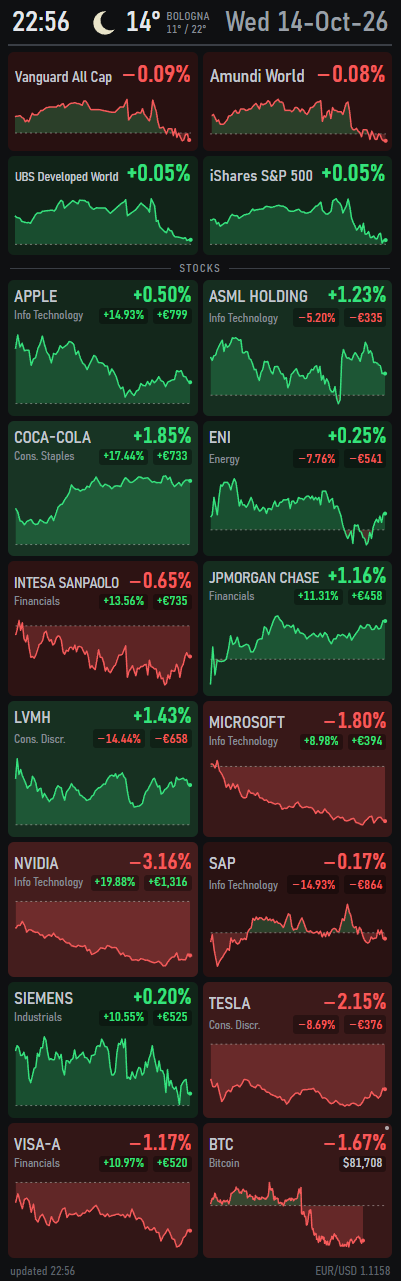
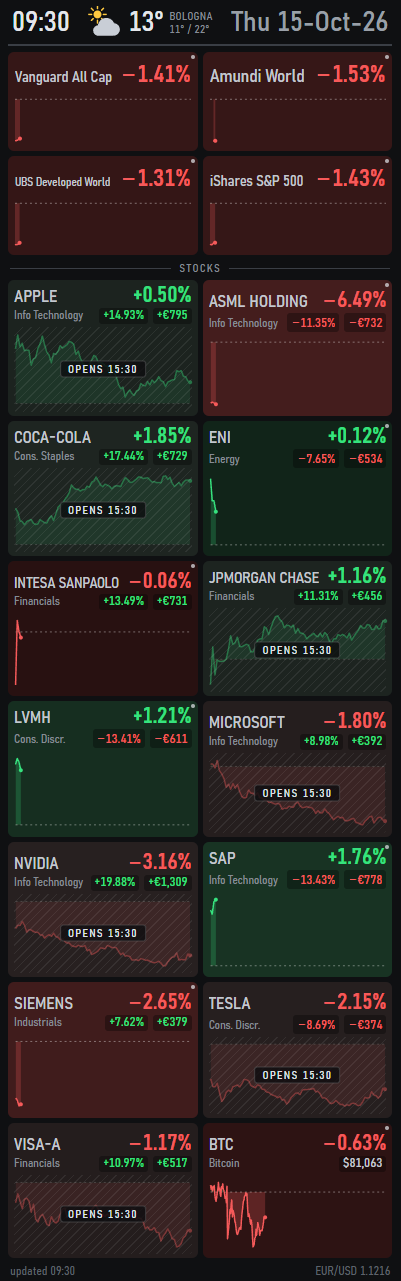
Show clearly when a stock's or fund's market is closed
Closed tiles lose their colour, their chart fades under hatching and is labelled
CLOSED or OPENS 15:30 / OPENS MON 09:00; names and numbers stay readable. The page
compares each market's session (Yahoo's currentTradingPeriod) with the clock every
second, so tiles switch the moment a market opens or closes; 24-hour markets (Bitcoin,
currencies) are always open. Just after an open, until Yahoo's delayed first quote of
the day arrives, the day's change is 0.00% instead of repeating yesterday's move.

diff --git a/web/panel.js b/web/panel.js
@@ -57,7 +57,7 @@ function renderClock() {
   setText($('#date'), `${DAYS[t.getDay()]} ${pad2(t.getDate())}-${MONTHS[t.getMonth()]}-${String(t.getFullYear()).slice(2)}`);
 }
 renderClock();
-setInterval(renderClock, 1000);
+setInterval(() => { renderClock(); updateMarkets(); }, 1000);
 
 /* ---- weather icons (WMO codes from Open-Meteo) ---- */
 const SUN = '<circle cx="16" cy="16" r="6" fill="#ffc940"/>' +
@@ -143,21 +143,51 @@ function stockTile() {
   el.innerHTML =
     '<div class="r1"><span class="nm"></span><span class="dp">–</span></div>' +
     '<div class="r2"><span class="sc"></span><span class="ov ovp">–</span><span class="ov ovm">–</span></div>' +
-    '<div class="ch"><svg class="sp day"></svg></div>';
+    '<div class="ch"><svg class="sp day"></svg><span class="mk"></span></div>';
   return el;
 }
 
 function indexTile() {
   const el = document.createElement('div');
   el.className = 'tile flat';
-  el.innerHTML = '<div class="r1"><span class="nm"></span><span class="dp">–</span></div><div class="ch"><svg class="sp day"></svg></div>';
+  el.innerHTML = '<div class="r1"><span class="nm"></span><span class="dp">–</span></div><div class="ch"><svg class="sp day"></svg><span class="mk"></span></div>';
   return el;
+}
+
+/* ---- market open or closed ----
+   Decided from the session times against the clock (every second), so tiles change state right when a
+   market opens or closes. Sessions of 23 hours or more (Bitcoin, currencies) count as always open. */
+function marketOpen(session, fallback, now = Date.now() / 1000) {
+  if (!session) return !!fallback;
+  if (session.end - session.start >= 23 * 3600) return true;
+  return now >= session.start && now < session.end;
+}
+
+function closedLabel(session, now = Date.now() / 1000) {
+  if (!session || now >= session.start) return 'CLOSED';
+  const t = new Date(session.start * 1000), today = new Date();
+  const hm = `${pad2(t.getHours())}:${pad2(t.getMinutes())}`;
+  return t.toDateString() === today.toDateString() ? `OPENS ${hm}` : `OPENS ${DAYS[t.getDay()].toUpperCase()} ${hm}`;
+}
+
+function paintMarket(el) {
+  const open = marketOpen(el._session, el._open);
+  el.classList.toggle('open', open);
+  el.classList.toggle('closed', !open);
+  const mk = $('.mk', el);
+  if (mk) setText(mk, open ? '' : closedLabel(el._session));
+}
+
+function updateMarkets() {
+  for (const el of document.querySelectorAll('.tile')) if ('_open' in el) paintMarket(el);
 }
 
 function paintTile(el, item, extra) {
   const d = dir(item.changePct);
   const cls = ['tile', tint(d)];
-  if (item.open) cls.push('open');
+  el._session = item.session || null;
+  el._open = !!item.open;
+  cls.push(marketOpen(el._session, el._open) ? 'open' : 'closed');
   if (item.stale) cls.push('stale');
   const c = cls.join(' ');
   if (el.className !== c) el.className = c;
@@ -166,6 +196,7 @@ function paintTile(el, item, extra) {
   setText($('.dp', el), pct(item.changePct));
   if (extra) extra(el, item);
   chart($('svg.day', el), item.intraday, false);
+  paintMarket(el);
 }
 
 /* ---- fitting text: measured on a canvas, so it does not depend on when the layout runs ---- */

diff --git a/web/panel.css b/web/panel.css
@@ -61,11 +61,27 @@ svg.sp { display: block; width: 100%; overflow: visible; }
 /* market open: a small dot in the corner */
 .tile.open::after { content: ''; position: absolute; top: 3px; right: 3px; width: 4px; height: 4px; border-radius: 50%; background: #e4e7eb; opacity: .7; }
 
+/* market closed: the tint loses its colour (a faint hint of green or red stays), the chart fades under fine
+   hatching and carries a CLOSED / OPENS 15:30 label. Names and numbers keep their colours. */
+.tile.closed.up { background: hsl(145 10% calc(12% + 2% * var(--k, 0))); }
+.tile.closed.down { background: hsl(0 10% calc(12% + 2% * var(--k, 0))); }
+.tile.closed .ch svg { opacity: .42; }
+.tile.closed .ch::after {
+  content: ''; position: absolute; inset: 0; pointer-events: none; border-radius: 3px;
+  background: repeating-linear-gradient(135deg, rgb(255 255 255 / .07) 0 1px, transparent 1px 6px);
+}
+.mk {
+  display: none; position: absolute; left: 50%; top: 50%; transform: translate(-50%, -50%); z-index: 1;
+  font-size: 11px; letter-spacing: 1.4px; color: #dfe2e6; white-space: nowrap;
+  background: rgb(12 13 15 / .8); border: 1px solid rgb(255 255 255 / .18); border-radius: 3px; padding: 1px 7px;
+}
+.tile.closed .mk { display: block; }
+
 .r2 { display: flex; align-items: baseline; gap: 5px; margin-top: -1px; white-space: nowrap; }
 .sc { flex: 1; min-width: 0; font-size: 11.5px; color: var(--dim); overflow: hidden; text-overflow: ellipsis; }
 /* overall result vs purchase price: own green/red, on a dark pill so it reads on either tile tint */
 .ov { font-size: 13px; padding: 0 4px; border-radius: 3px; background: rgb(0 0 0 / .32); }
-.ch { flex: 1; min-height: 0; display: flex; gap: 6px; margin-top: 3px; }
+.ch { position: relative; flex: 1; min-height: 0; display: flex; gap: 6px; margin-top: 3px; }
 .ch svg { flex: 1; min-width: 0; height: 100%; }
 .xt .ovm { display: none; }
 

diff --git a/src/StockPanel/Snapshot.cs b/src/StockPanel/Snapshot.cs
@@ -7,17 +7,21 @@ namespace StockPanel;
 /// (the previous close); X0..X1 the time span the chart covers (the trading session).</summary>
 public sealed record SeriesDto(long[] T, double[] V, double? Ref, long? X0, long? X1);
 
+/// <summary>The market's current or next regular session (unix seconds); the page compares it with the clock
+/// to show open and closed markets, and when a closed one opens.</summary>
+public sealed record SessionDto(long Start, long End);
+
 public sealed record StockDto(
     string Name, string Sector, string? Symbol, string Currency, double? Price, double? ChangePct,
-    double? OverallPct, double? Pl, double? Day, double? Value, bool Open, bool Stale, SeriesDto? Intraday);
+    double? OverallPct, double? Pl, double? Day, double? Value, bool Open, bool Stale, SeriesDto? Intraday, SessionDto? Session);
 
-public sealed record IndexDto(string Name, string? Symbol, double? Price, double? ChangePct, bool Open, bool Stale, SeriesDto? Intraday);
+public sealed record IndexDto(string Name, string? Symbol, double? Price, double? ChangePct, bool Open, bool Stale, SeriesDto? Intraday, SessionDto? Session);
 
 public sealed record FxDto(string Pair, double Rate, double? ChangePct);
 
 /// <summary>A tile for a spare grid cell (Bitcoin, the dollar): price with its own decimals and currency.</summary>
 public sealed record ExtraDto(string Name, string Note, double Price, int Decimals, string? Currency, double? ChangePct,
-    bool Open, bool Stale, SeriesDto? Intraday);
+    bool Open, bool Stale, SeriesDto? Intraday, SessionDto? Session);
 
 public sealed record Snapshot(
     string Updated, string? DataTime, string Base, WeatherNow? Weather,
@@ -48,6 +52,7 @@ public static class SnapshotBuilder
     public static Snapshot Build(PanelConfig cfg, IReadOnlyList<Instrument> stocks, IReadOnlyList<Instrument> indices,
         IReadOnlyDictionary<string, ChartData> fx, ChartData? btc, WeatherNow? weather, List<string> warnings, DateTime? lastDataUtc, DateTimeOffset now)
     {
+        var nowUnix = now.ToUnixTimeSeconds();
         var staleAfter = TimeSpan.FromSeconds(cfg.RefreshSeconds * 3 + 30);
         bool Stale(Instrument i) => i.Day is null || now.UtcDateTime - i.DayFetchedUtc > staleAfter;
 
@@ -60,7 +65,7 @@ public static class SnapshotBuilder
         {
             var s = stocks[k];
             var h = s.Holding!;
-            var d = s.Day;
+            var d = s.Day is null ? null : Today(s.Day, nowUnix);
             // everything in the base currency at today's rates; the purchase price may be in another
             // currency than the stock (a USD stock bought for EUR), which then includes the currency move
             var rate = Rate(h.Currency);
@@ -78,7 +83,7 @@ public static class SnapshotBuilder
 
             stockDtos.Add((new StockDto(h.Name, h.Sector, s.Symbol, h.Currency, R(price, 4), R(change, 2), R(overall, 2),
                 R(pl, 2), R(day, 2), R(value, 2), d?.IsOpen ?? false, Stale(s),
-                d is null ? null : Intraday(d)), k));
+                d is null ? null : Intraday(d), Session(d)), k));
         }
 
         var sorted = cfg.SortBy.ToLowerInvariant() switch
@@ -92,10 +97,10 @@ public static class SnapshotBuilder
 
         var indexDtos = indices.Select(i =>
         {
-            var d = i.Day;
+            var d = i.Day is null ? null : Today(i.Day, nowUnix);
             double? change = d is not null && d.PrevClose is > 0 ? (d.Price / d.PrevClose - 1) * 100 : null;
             return new IndexDto(i.Index!.ShortName, i.Symbol, R(d?.Price, 4), R(change, 2), d?.IsOpen ?? false, Stale(i),
-                d is null ? null : Intraday(d));
+                d is null ? null : Intraday(d), Session(d));
         }).ToList();
 
         FxDto? fxDto = null;
@@ -117,8 +122,19 @@ public static class SnapshotBuilder
         ExtraDto Extra(string name, string note, ChartData d, int decimals, string? currency, DateTimeOffset at) =>
             new(name, note, Math.Round(d.Price, decimals), decimals, currency,
                 d.PrevClose is > 0 ? R((d.Price / d.PrevClose - 1) * 100, 2) : null, d.IsOpen,
-                at.UtcDateTime - DateTimeOffset.FromUnixTimeSeconds(d.MarketTime).UtcDateTime > TimeSpan.FromDays(4), Intraday(d));
+                at.UtcDateTime - DateTimeOffset.FromUnixTimeSeconds(d.MarketTime).UtcDateTime > TimeSpan.FromDays(4), Intraday(d), Session(d));
     }
+
+    /// <summary>Right after the open Yahoo still reports yesterday's last trade (its European quotes come ~15 minutes
+    /// late), sometimes with yesterday's previous close too, which would repeat yesterday's move. Until today's first
+    /// trade arrives the day's change is 0 from the last price, and the chart starts empty at today's open.</summary>
+    internal static ChartData Today(ChartData d, long nowUnix) =>
+        d.RegularStart is { } start && nowUnix >= start && d.MarketTime < start
+            ? d with { PrevClose = d.Price, T = [start], C = [d.Price], PeriodStart = start, PeriodEnd = d.RegularEnd ?? d.PeriodEnd }
+            : d;
+
+    static SessionDto? Session(ChartData? d) =>
+        d is { RegularStart: { } s, RegularEnd: { } e } && e > s ? new SessionDto(s, e) : null;
 
     /// <summary>The same quote the other way round (EUR/USD to USD/EUR).</summary>
     internal static ChartData Invert(ChartData d) => d with

diff --git a/src/StockPanel/Yahoo.cs b/src/StockPanel/Yahoo.cs
@@ -4,10 +4,12 @@ using System.Text.Json;
 namespace StockPanel;
 
 /// <summary>One Yahoo Finance chart: the latest quote plus a price series. Prices are in <see cref="Currency"/>
-/// (main unit: pence are already converted to pounds).</summary>
+/// (main unit: pence are already converted to pounds). RegularStart..RegularEnd is the market's current or
+/// next regular session (Yahoo's currentTradingPeriod), used to tell when the market is open.</summary>
 public sealed record ChartData(
     string Symbol, string Currency, double Price, double? PrevClose, long MarketTime,
-    long? PeriodStart, long? PeriodEnd, bool IsOpen, long[] T, double[] C);
+    long? PeriodStart, long? PeriodEnd, bool IsOpen, long[] T, double[] C,
+    long? RegularStart = null, long? RegularEnd = null);
 
 public sealed record SearchHit(string Symbol, string Exchange, string QuoteType);
 
@@ -101,9 +103,11 @@ public sealed class YahooClient : IDisposable
             }
         }
         var isOpen = false;
+        long? regStart = null, regEnd = null;
         if (meta.TryGetProperty("currentTradingPeriod", out var ctp) && ctp.TryGetProperty("regular", out var reg))
         {
             var s = Long(reg, "start"); var e = Long(reg, "end");
+            regStart = s; regEnd = e;
             isOpen = s <= nowUnix && nowUnix < e;
             periodStart ??= s;
             periodEnd ??= e;
@@ -128,7 +132,8 @@ public sealed class YahooClient : IDisposable
         }
 
         return new ChartData(Str(meta, "symbol") ?? "", currency, price.Value * factor, prev * factor,
-            Long(meta, "regularMarketTime") ?? nowUnix, periodStart, periodEnd, isOpen, times.ToArray(), closes.ToArray());
+            Long(meta, "regularMarketTime") ?? nowUnix, periodStart, periodEnd, isOpen, times.ToArray(), closes.ToArray(),
+            regStart, regEnd);
     }
 
     static string? Str(JsonElement e, string name) =>

diff --git a/tests/StockPanel.Tests/SnapshotTests.cs b/tests/StockPanel.Tests/SnapshotTests.cs
@@ -57,4 +57,18 @@ public class SnapshotTests
         Assert.Equal(10, st.OverallPct!.Value, 2);
         Assert.Equal(100, st.Pl!.Value, 2);
     }
+
+    [Fact]
+    public void JustAfterTheOpen_WithoutTodaysTrades_TheDayIsUnchanged()
+    {
+        // yesterday's quote (169 -> 170.34, last trade at 1000) while today's session started at 5000
+        var d = new ChartData("AI.PA", "EUR", 170.34, 169, 1000, 0, 2000, true, [0, 900], [169.5, 170.34], 5000, 9000);
+        var t = SnapshotBuilder.Today(d, 5100);
+        Assert.Equal(170.34, t.PrevClose);
+        Assert.Equal([5000L], t.T);
+        Assert.Equal(5000, t.PeriodStart);
+        Assert.Same(d, SnapshotBuilder.Today(d, 4000));                        // before the open: yesterday's day stays
+        var traded = d with { MarketTime = 5050 };
+        Assert.Same(traded, SnapshotBuilder.Today(traded, 5100));             // today's first trade is in: real data
+    }
 }

diff --git a/README.md b/README.md
@@ -22,8 +22,15 @@ Each tile is green when the stock is up for the day and red when it is down, dar
 brighter with the size of the move. The daily % uses the same colour; the result against
 the purchase price has its own green/red (on a dark pill), independent of the day. In the
 charts the area above the dashed reference line (the previous close) is
-green and the area below it red. A small white dot in a tile's corner means its market is
-open. Quotes come from Yahoo Finance every minute.
+green and the area below it red. Quotes come from Yahoo Finance every minute.
+
+When a stock's or fund's market is **closed**, its tile loses its colour (only a faint hint of
+green or red stays), the chart fades under fine hatching and is labelled **CLOSED**, or
+**OPENS 15:30** (**OPENS MON 09:00**) when the next session is known. Names and numbers stay as
+readable as ever, and show the last session. Open markets keep the full colour and a small
+white dot in the corner; the switch happens on the clock, the moment a market opens or closes.
+Bitcoin and currencies trade around the clock and are always open. Just after an open, until
+Yahoo's (delayed) first quotes of the day arrive, the day's change reads 0.00%.
 
 ## Requirements
 
